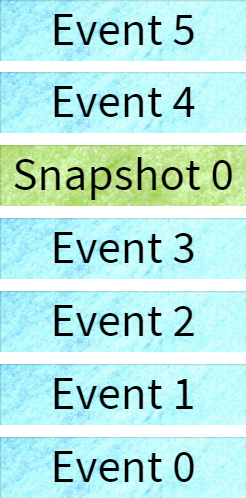
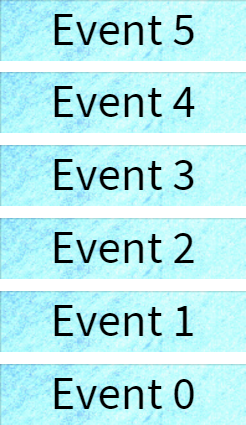
eventsourcing: reorder for coherence

diff --git a/eventsourcing/eventsourcing-timesheets.md b/eventsourcing/eventsourcing-timesheets.md
@@ -3,14 +3,17 @@
 ![Whois](img/whois.png)
 
 
-![What is it](img/hipster-ariel-irl.jpg)
+
+![What is it](img/beaker-what-is-this.gif)
 Note:
 * A different way of storing data
 * Requires a little more thought to implement
 * Lossless storage - you can transform to any other datastore type
 * Guaranteed audit log
 * Allows historic questions to be answered
+  * shopping basket example
 * Events are something which happened - they must be named in the past-tense
+
 
 
 ```json
@@ -25,6 +28,7 @@ Note:
 Note:
 * Events capture intent as well as the change
 * This is a bad event
+
 
 
 ```json
@@ -49,37 +53,28 @@ Note:
 Note:
 * Events have the same data
 * events have different intent
-
-
-
-# Event Sourcing fits well with CQRS
-But its not required
-
-
-# Command Query Responsibility Segregation
-Note:
-* Invented by Greg Young
-* Many videos and talks about it
-* It can be complex, but is good for scalability...
-
-
-![Cqrs Complex](img/cqrs-complex.jpg) <!-- .element: style="height: 600px" -->
-Note: One of the original diagrams
-Quite Complex
-
-
-![Cqrs Complex](img/cqrs-simple.png)
+  * who moved house?
+  * which consultant is entering addresses wrong a lot!?
 
 
 
 ![Read performance](img/reading.jpg)
+Note: what happens if you have 1000s of events?
+
 
 
 ![events-separate-snapshots](img/events.png) <!-- .element: class="no-border" -->
+
+
+
+![events-separate-snapshots](img/events-inline-snapshots.png) <!-- .element: class="no-border" -->
 Note: conceptual only
 
 
+
 ![events-separate-snapshots](img/events-separate-snapshots.png) <!-- .element: class="no-border" -->
+Note: actually implemented as a separate stream/table
+
 
 
 ```sql
@@ -99,14 +94,18 @@ where e.aggregateID = @id
   )
 order by e.sequence asc
 ```
+Note: get the latest snapshot, then get all events after that snapshot
 
 
 
 ![Jack Sparrow Searching](/img/search.jpg)
 Note:
-* How do we handle searching?
+* We can only load by ID...so how do we search?
+* Multiple projections can solve this
 * One model for each purpose
 * Can also be stored in different places, e.g. sql, elasticsearch, redis
+* For example a timesheet system...
+
 
 
 *All Timesheets*
@@ -135,6 +134,7 @@ Note:
 <!-- .element: class="stretch" -->
 
 
+
 *All Timesheets Awaiting Approval*
 ```json
 {
@@ -156,6 +156,7 @@ Note:
 ```
 
 
+
 *All Actionable Timesheets for an Authoriser*
 ```json
 [
@@ -171,14 +172,43 @@ Note:
 
 
 
-# Lets have an example...
+# Event Sourcing fits well with CQRS
+But its not required
+Note: we can use cqrs to help solve this
 
-Note: bank accounts and shopping carts are getting tired, and are a little simple.
+
+
+# Command Query Responsibility Segregation
+Note:
+* Invented by Greg Young
+* Many videos and talks about it
+* It can be complex, but is good for scalability...
+
+
+
+![Cqrs Complex](img/cqrs-complex.jpg) <!-- .element: style="height: 600px" -->
+Note: One of the original diagrams
+Quite Complex
+
+
+
+![Cqrs Complex](img/cqrs-simple.png)
+Note:
+* a little simpler
+* We can add queues and messaging systems to aid scalability if needed
+* You end up at the first diagram!
+
+
+
+# This all seems rather complicated
+Note:
+* so lets have an example!
+* bank accounts and shopping carts are getting tired, and are a little simple.
+* how about timesheets?!
 
 
 
 ![Table structure](img/timesheets-1.png)
-
 Note:
 works to start with, but has problems:
 * the user changes bank account
@@ -190,8 +220,8 @@ Has questions we cannot answer too:
 * does this happen often for a given approver?
 
 
-![Table structure](img/timesheets-2.png)
 
+![Table structure](img/timesheets-2.png)
 Note:
 * One solution is to link payments to the account paid
 * However this doesnt haelp if the accounts detail gets modified
@@ -201,14 +231,15 @@ Note:
 * cant apply this historically
 
 
+
 * TimesheetGenerated
 * UserUpdatedTimesheet
 * UserSubmittedTimesheet
 * TimesheetApproved
 * TimesheetRejected
 * UserPaid
-
 Note: represent the domain as a set of events
+
 
 
 `TimesheetGenerated: { weekdate: 2016-06-20 }` <!-- .element: class="fragment" -->
@@ -239,6 +270,7 @@ Note:
 * also proper encapsulation
 
 
+
 ```c#
 public class Timesheet
 {
@@ -266,6 +298,7 @@ public class Timesheet
 Note:
 * We use a static method for construction to make methods naming more explicit
 * wouldn't want email sent every time you load
+
 
 
 ```c#
@@ -300,3 +333,34 @@ private void Handles(UserSubmittedTimesheet e)
 <!-- .slide: data-transition="none-in" -->
 Note:
 * when an event gets applied we don't want side effects
+
+
+
+# Projections?
+
+
+
+```c#
+Register<TimesheetGenerated>(e => {
+  var user = _getUser.Execute(e.UserID);
+
+  user.Timesheets.Add(new UserTimesheetModel(e));
+
+  _saveUser.Execute(user);
+});
+```
+Note: saveUser could be sql backed, or elasticsearch etc.
+
+
+```c#
+var approvers = new Cache<Guid, Approver>(key => _getApprover.Execute(key));
+
+Register<UserSubmittedTimesheet>(e => {
+  var approver = _approvers[e.ApproverID];
+
+  approver.Timesheets.Add(new ApproverTimesheetModel(e));
+
+  _saveApprover.Execute(approver);
+})
+```
+Note: This one is using a cache of approvers
